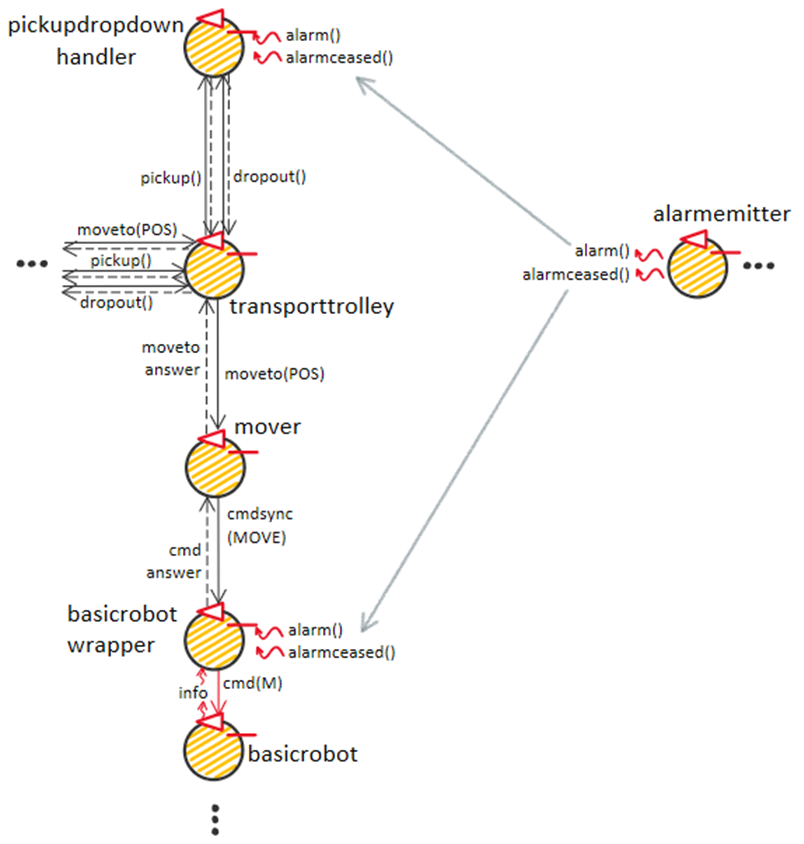
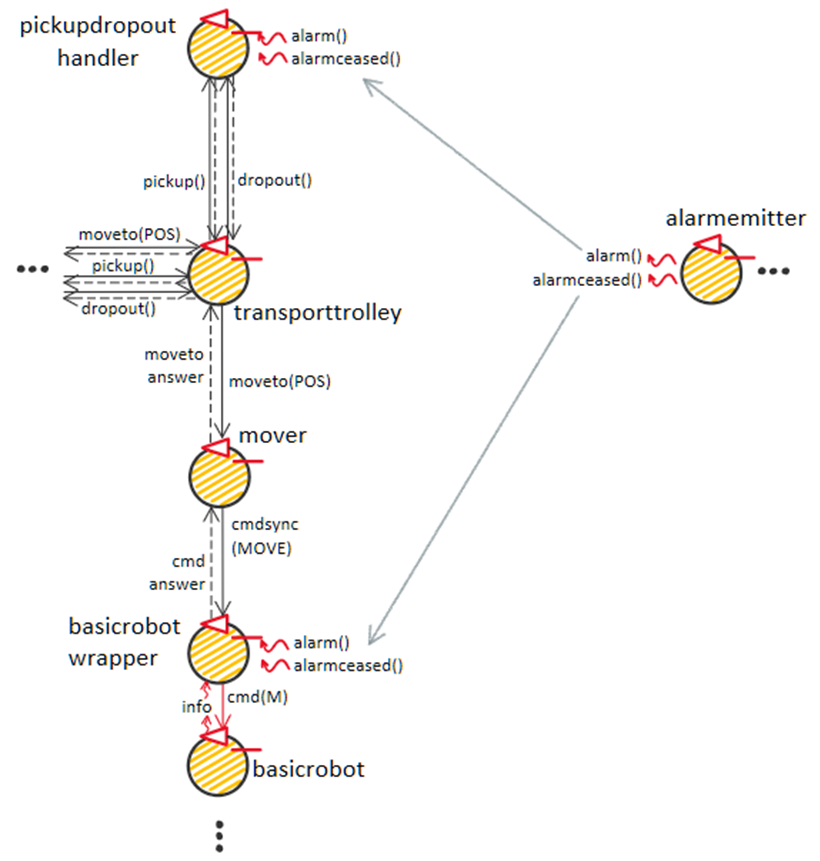
sprint2 documentation complete

diff --git a/sprint2/sprint2.html b/sprint2/sprint2.html
@@ -62,10 +62,10 @@ h6{
             macchinario è in movimento, o più in generale quando sta operando. <br>
             Per questo motivo si deduce che il <b>Led</b>:
             <ul>
-                <li>Debba lampeggiare quando il robot sta gestendo (ho ha gestito e sta tornando a casa) una depositaction, segnalando quindi che il robot può muoversi. <br>
-                    Inoltre, se il robot si trova in home ma si sta girando (magari per riposizionarsi dopo aver gestito una deposiaction), il <b>Led</b> deve comunque lampeggiare.</li>
+                <li>Debba lampeggiare quando il robot sta gestendo (ho ha gestito e sta tornando a casa) una <b>Deposit action</b>, segnalando quindi che il robot può muoversi. <br>
+                    Inoltre, se il robot si trova in <b>HOME</b> ma si sta girando (magari per riposizionarsi dopo aver gestito una deposiaction), il <b>Led</b> deve comunque lampeggiare.</li>
                 <li>Resterà acceso solo se la depositaction viene interrotta da un allarme.</li>
-                <li>Resterà spento solo quando non vi sarà più niente da gestire (e per questo motivo ci si troverà in HOME).
+                <li>Resterà spento solo quando non vi sarà più niente da gestire (e per questo motivo ci si troverà in <b>HOME</b>).
                 </li>
             </ul>
         </li>
@@ -80,7 +80,7 @@ h6{
         dal committente al punto 4, siccome questo rappresenta una parte più importante e corposa rispetto alla gui del punto 3.</p>
     <h4>Piano di lavoro:</h4>
     <ul>
-        <li>Analisi del problema di chi e in che forma riceve le informazioni relative ad un allarme per realizzare lo stop di emergenza del robot</li>
+        <li>Analisi del problema di chi e in che forma riceve le informazioni relative ad un allarme per realizzare l'halt del robot</li>
         <li>Analisi del problema di chi e in che forma riceve le informazioni per realizzare l'aggiornamento dello stato del <b>Led</b></li>
         <li>Sviluppo / adattamento dei componenti necessari</li>
         <li>Realizzazione di un modello eseguibile (a tal proposito verrà utilizzato il metamodello <a href="../docs_common/Qak.html">QAK</a>).</li>
@@ -119,7 +119,7 @@ h6{
 Event alarm       : alarm(_)
 Event alarmceased : alarmceased(_)</pre>
         </code>
-    <p>Risulta quindi logicamente sensato porre in cascata al sonar (il quale potrà emettere eventi locali di distanza misurata) un componente dedicato all'invio system-wide degli eventi 
+    <p>Risulta quindi logicamente sensato porre in cascata al <b>Sonar</b> (il quale potrà emettere eventi locali di distanza misurata) un componente dedicato all'invio system-wide degli eventi 
         di allarme e cessato allarme.</p>
     <p>Inoltre, al fine di realizzare un buon test plan, è opportuno che il sonar possa essere disattivato in modo che gli allarmi possano essere inviati on demand dal test stesso</p>
     <code><pre>
@@ -149,12 +149,13 @@ Dispatch sonardeactivate : sonaractivate(_)</pre>
     
     
     <h3><b>Led</b></h3>
-    <h4>Come calcolare lo stato del led?</h4>
+    <h4>Come calcolare lo stato del <b>Led</b>?</h4>
     <p>Lo stato del <b>Led</b> dipende: </p>
     <ul>
-        <li>Dal fatto che il robot si trovi o meno in home senza dover gestire nient'altro. L'informazione è ottenibile osservando il <i>mover</i></li>
+        <li>Dal fatto che il robot si trovi o meno in <b>HOME</b> senza dover gestire nient'altro. L'informazione è ottenibile osservando il <i>mover</i></li>
         <li>Dal fatto che il robot sia in movimento (o che comunque stia operando) piuttosto che si trovi invece bloccato da un allarme. L'informazione è ottenibile da <i>basicrobotwrapper</i> e <i>pickupdropouthandler</i></li>
     </ul>
+    <p>Dunque potrà essere creato una specie di controller che ossreva questi attori e che invia messaggi al <b>Led</b>.</p>
     <h4>Come interagire con il componente <b>Led</b>?</h4>
     <p>Il componente <b>Led</b> può ricevere gli aggiornamenti di stato tramite eventi, il che permette di realizzare un buon loose binding tra il <b>Led</b> e il resto del sistema. Inoltre lo stato del 
         <b>Led</b> sulla gui potrà essere aggiornato facendo uso del medesimo evento.</p>
@@ -167,6 +168,8 @@ Event    update_led 	  : update_led(LEDSTATE) // LEDSTATE = ON | OFF | BLINK</pr
         <h6>Architettura logica:</h6>
         <img class="centerimg" style="max-width: 1200px;" src="ProblemQakSprint2/demosystemarchitecturearch.png"/>
         <p style="width: 100%; text-align: right;"><a href="../docs_common/Legenda.html">Legenda</a></p>
+        <h6>Note</h6>
+        <small>Ai soli fini di testing è previsto un attore <i>alarmreceivertest</i> in grado registrare nella history quando viene ricevuto un allarme</small>
         <h6>QAK</h6>
         <a href="ProblemQakSprint2/src/problemAnalysis/SystemAchitecture.qak">Modello del sistema QAK</a> <br>
         <h6><p>Testplan <small>(non ancora eseguibili)</small>:</p></h6>
@@ -179,25 +182,101 @@ Event    update_led 	  : update_led(LEDSTATE) // LEDSTATE = ON | OFF | BLINK</pr
 
 
 <h2>Project</h2>
+<div class="remark">
+    <p>Procediamo con lo sviluppo vero e proprio dei componenti. Essi sono tutti presenti nel <a href="QakSprint2/src/Prototype/demo0.qak">file QAK di questo sprint</a>, ma vengono qui 
+        riportate e spiegate le macchine a stati che li implementano.</p>
 
+    <h3><i>pickupdropouthandler</i></h3>
+    <img class="centerimg" style="max-width: 650px;" src="docs/_images/pickupdropouthandler.png"/>
+    <p>La macchina gestisce prioritariamente i messaggi di <i>alarm</i> e <i>alarmceased</i>. Se la macchina a stati si trova nello stato di <i>alarm</i>, allora non verrà effettuata alcuna 
+        operazione fino a che l'allarme non sarà cessato. Se invece non vi è alcun allarme e arriva una richiesta di <b>Pickup</b> o di <b>Dropout</b>, allora si passa da <i>wait</i> a 
+        <i>do_pickup</i> o <i>do_dropout</i>. Se durante tali operazioni giunge un allarme, queste vengono interrotte (stati <i>halt_pickup</i> e <i>halt_dropout</i>), e si passa agli stati 
+        di resume (<i>resume_pickup</i> e <i>resume_dropout</i>) solo una volta cessato l'allarme.</p>
+        <p>Note:</p>
+        <ul>
+            <li>Solo una volta terminata l'operazione si risponde a colui che ha fatto la richiesta (<i>transporttrolley</i> in questo caso), di conseguenza anche le macchine a più alto livello 
+                rimarranno bloccate durante un allarme.</li>
+            <li>Gli allarmi potevano essere gestiti come interrupt. Tuttavia al tempo dello sviluppo di questo sprint, il supporto runtime non è stato ritenuto sufficientemente stabile da poter
+                utilizzare la relativa feature, e quindi si hanno diversi stati di halt/alarm. Inoltre la routine di gestione dell'halt del <b>Pickup</b> potrebbe un domani essere diversa da quella di <b>Dropout</b>.</li>
+            <li>Siccome non si deve perdere nemmeno un messaggio di allarme, gli eventi <i>alarm</i> e <i>alarmceased</i> vengono trasformati in messaggi di tipo Dispatch da un apposito attore 
+                "receiver" (<i>alarmreceiverpickupdropdown</i>) prima di giungere alla macchina corrente. In questo modo i messaggi di allarme vengono accodati invece di essere scartati se arrivano 
+                mentre si è in uno stato che non prevede reazioni ad essi.</li>
+        </ul>
 
+    <h3><i>basicrobotwrapper</i></h3>
+    <img class="centerimg" style="max-width: 600px;" src="docs/_images/basicrobotwrapper.png"/>
+    <p>La macchina gestisce prioritariamente i messaggi di <i>alarm</i> e <i>alarmceased</i>. Se la macchina a stati si trova nello stato di <i>alarm</i>, allora non verrà effettuata alcuna 
+        operazione fino a che l'allarme non sarà cessato. Se invece non vi è alcun allarme e arriva una richiesta, allora si passa da <i>wait</i> a <i>forward_cmd</i> o <i>other_cmd</i> a 
+        seconda che il comando sia di move forward o meno. Se durante una move forward giunge un allarme, il robot viene fermato (<i>halt_forward</i>) e riprenderà ad andare in avanti solo a 
+        cessato allarme (<i>forward_cmd</i>). Quando viene incontrato l'ostacolo si risponde al chiamante (stato <i>collision</i>) e si attengono i prossimi comandi. <br>
+        Un caso particolare è se l'evento di <i>info</i> (che segnala la collisione) avviene mentre si è in <i>halt_forward</i> (magari perché l'allarme è giunto poco prima della collisione, e il 
+        robot non ha fatto in tempo a fermarsi): in tal caso si attende in <i>halt_collision</i> il cessato allarme, per poi passare direttamente a <i>collision</i> (N.B: se si passasse 
+        direttamente da <i>halt_forward</i> a <i>collision</i> durante un allarme, l'evento <i>alarm</i> verrebbe consumato e la macchina sarebbe pronta ad interpretare ed eseguire nuovi 
+        comandi anche se l'<i>alarmceased</i> non è ancora arrivato). <br>
+        Per gli altri comandi (stato <i>other_cmd</i>) tutto questo non è necessario, siccome ne gli halt, ne i turn devono essere interrotti. </p>
+        <p>Note:</p>
+        <ul>
+            <li>Solo una volta terminata l'operazione si risponde a colui che ha fatto la richiesta (<i>mover</i> in questo caso), di conseguenza anche le macchine a più alto livello rimarranno bloccate durante un allarme.</li>
+            <li>Siccome non si deve perdere nemmeno un messaggio di allarme, gli eventi <i>alarm</i> e <i>alarmceased</i> vengono trasformati in messaggi di tipo Dispatch da un apposito attore "receiver" (<i>alarmreceiverbasicrobot</i>) 
+                prima di giungere alla macchina corrente. In questo modo i messaggi di allarme vengono accodati invece di essere scartati se arrivano mentre si è in uno stato che non prevede reazioni ad essi.</p></li>
+        </ul>
 
-<h2>Test plans</h2> 
+    <h3><i>ledalarmcontrol</i></h3>
+    <p>Vengono osservati gli attori <i>mover</i>, <i>basicrobotwrapper</i> e <i>pickupdropouthandler</i>, e ad ogni singolo cambiamento di stato di questi si calcola il nuovo stato del <b>Led</b>. 
+        Se tale stato differisce da quello in cui si trova attualmente, allora viene emesso l'evento <i>update_led</i>. <br>
+        Dal <i>mover</i> ricaviamo la posizione attuale e la prossima destinazione che il robot deve raggiungere. Se queste sono entrambe "HOME", allora significa che il robot è inattivo, e 
+        il <b>Led</b> deve essere in ogni caso spento. <br>
+        Da <i>basicrobotwrapper</i> e <i>pickupdropouthandler</i> capiamo invece se il robot è attualmente in movimento, o se è invece bloccato. Il robot è effettivamente bloccato solo quando 
+        sia <i>basicrobotwrapper</i>, sia <i>pickupdropouthandler</i> sono in uno stato di halt/alarm. Ad esempio, se il robot sta girando ed è appena arrivato un allarme, 
+        <i>pickupdropouthandler</i> sarà nello stato <i>alarm</i>, mentre <i>basicrobotwrapper</i> entrerà in <i>alarm</i> solamente dopo aver completato il giro (ossia solo quando sarà 
+        effettivamente fermo). <br>
+        Il <b>Led</b> quindi rimane acceso solo quando:
+        <ul>
+            <li><i>basicrobotwrapper</i> si trova in <i>alarm</i>, <i>halt_forward</i> o <i>halt_collision</i></li>
+            <li><i>pickupdropouthandler</i> si trova in  <i>alarm</i>, <i>halt_pickup</i> o <i>halt_dropout</i></li>
+        </ul>
+    </p>
+</div>
 
+<h2>Test plans</h2>
+<div class="remark">
+    <h4><p>Test effettuati:</p></h4>
+    <ul>
+        <h6>Classe di test TestSprint2_integration_halt.kt:</h6>
+        <p>Classe per testare il sistema, in particolare per verificare che il robot si fermi</p>
+        <li><u>test_accepted()</u>: Il robot viene interrotto durante una move forward, durante una turn, durante una <b>Pickup</b> e una <b>Dropout</b>.
+            Si controlla che gli stati delle varie macchine assumano i valori che si si aspetti</li>
+        <h6>Classe di test TestSprint2_halt_unit_test.kt:</h6>
+        <p>Test specifici per testare <i>basicrobotwrapper</i> e <i>pickupdropouthandler</i>. Per questi test viene anche fatto uso dell'attore ausiliario <i>commandissuerfortests</i></p>
+        <lI><u>test_halt_while_forward()</u>: <i>alarm</i> inviato durante l'operazione di move forward: operazione interrotta e poi ripresa</lI>
+        <li><u>test_halt_before_forward()</u>: <i>alarm</i> inviato prima dell'operazione di move forward: comincerà dopo <i>alarmceased</i></li>
+        <li><u>test_halt_while_turn()</u>: <i>alarm</i> inviato durante l'operazione di turn: operazione continua, e solo dopo che è completata la macchina si blocca</li>
+        <li><u>test_halt_before_turn()</u>: <i>alarm</i> inviato prima dell'operazione di turn: comincerà dopo <i>alarmceased</i></li>
+        <li><u>test_halt_while_pickup()</u>: <i>alarm</i> inviato durante l'operazione di <b>Pickup</b>: operazione interrotta e poi ripresa</li>
+        <li><u>test_halt_before_pickup()</u>: <i>alarm</i> inviato prima dell'operazione di <b>Pickup</b>: comincerà dopo <i>alarmceased</i></li>
+        <h6>Classe di test TestSprint2_integration_led.kt:</h6>
+        <p>Classe per testare il sistema, in particolare per verificare che il led si comporti come ci si aspetti</p>
+        <li><u>test_accepted()</u>: Il robot viene interrotto durante una move forward, durante una turn, durante una <b>Pickup</b> e una <b>Dropout</b>. 
+            Si controlla che lo stato del <b>Led</b> assuma il valore che ci si aspetti</li>
+    </ul>
+</div>
 
 <div class="remark" style="background-color: #c3fbe8;">
-    <!--<h3>Riassunto situazione attuale:</h3>
+    <h3>Riassunto situazione attuale:</h3>
     <h6>Architettura logica:</h6>
-    <img class="centerimg" style="max-width: 1300px;" src="QakSprint1/demo0arch.png"/>
+    <img class="centerimg" style="max-width: 1300px;" src="QakSprint2/demo0arch.png"/>
     <p style="width: 100%; text-align: right;"><a href="../docs_common/Legenda.html">Legenda</a></p>
     <h6>Note</h6>
-    <small><p><i>Basicrobot</i> è stato leggermente modificato rispetto alla versione iniziale per renderlo più stabile, ed è per questo stato rinominato in <i>basicrobotlorisdavide</i></p></small>
+    <small><ul>
+        <li>Ai soli fini di testing è previsto un attore <i>commandissuerfortests</i> in grado di effettuare singole richieste e registrare le risposte degli attori <i>basicrobotwrapper</i> e <i>pickupdropouthandler</i>.</li>
+        <li>Anche se nell'immagine non figura (a causa del fatto che è un codedQActor), <i>ledalarmcontrol</i> riceve aggiornamenti coap da <i>mover</i>, <i>basicrobotwrapper</i> e <i>pickupdropouthandler</i> per poi emettere eventi di tipo <i>update_led</i>.</li>
+    </ul></small>
     <h6>QAK</h6>
-    <a href="QakSprint1/src/Prototype/demo0.qak">Metamodello eseguibile QAK</a>
+    <a href="QakSprint2/src/Prototype/demo0.qak">Metamodello eseguibile QAK</a>
     <h6><p>Testplan:</p></h6>
-    <p><a href="QakSprint1/test/testSprint1/TestSprint1_wasteservice.kt">TestSprint1_wasteservice.kt</a> <small>(= a sprint0)</small> <br>
-        <a href="QakSprint1/test/testSprint1/TestSprint1_mover.kt">TestSprint1_mover.kt</a> <br>
-        <a href="QakSprint1/test/testSprint1/TestSprint1_integration_test.kt">TestSprint1_integration_test.kt</a></p>-->
+    <p><a href="QakSprint2/test/testSprint2/TestSprint2_integration_halt.kt">TestSprint2_integration_halt.kt</a> <br>
+        <a href="QakSprint2/test/testSprint2/TestSprint2_halt_unit_test.kt">TestSprint2_halt_unit_test.kt</a> <br>
+        <a href="QakSprint2/test/testSprint2/TestSprint2_integration_led.kt">TestSprint2_integration_led.kt</a></p>
 </div>
  
 <!-- USEFUL

diff --git a/sprint2/ProblemQakSprint2/src/it/unibo/ledalarmcontrol/Ledalarmcontrol.kt b/sprint2/ProblemQakSprint2/src/it/unibo/ledalarmcontrol/Ledalarmcontrol.kt
@@ -1,0 +1,38 @@
+/* Generated by AN DISI Unibo */ 
+package it.unibo.ledalarmcontrol
+
+import it.unibo.kactor.*
+import alice.tuprolog.*
+import kotlinx.coroutines.CoroutineScope
+import kotlinx.coroutines.delay
+import kotlinx.coroutines.launch
+import kotlinx.coroutines.runBlocking
+	
+class Ledalarmcontrol ( name: String, scope: CoroutineScope  ) : ActorBasicFsm( name, scope ){
+
+	override fun getInitialState() : String{
+		return "s0"
+	}
+	override fun getBody() : (ActorBasicFsm.() -> Unit){
+		val interruptedStateTransitions = mutableListOf<Transition>()
+		return { //this:ActionBasciFsm
+				state("s0") { //this:State
+					action { //it:State
+						CoapObserverSupport(myself, "127.0.0.1","8096","ctxrobot","basicrobotwrapper")
+						CoapObserverSupport(myself, "127.0.0.1","8096","ctxrobot","mover")
+						CoapObserverSupport(myself, "127.0.0.1","8096","ctxrobot","pickupdropouthandler")
+					}
+					 transition(edgeName="t065",targetState="handleUpdate",cond=whenDispatch("coapUpdate"))
+				}	 
+				state("handleUpdate") { //this:State
+					action { //it:State
+						if( checkMsgContent( Term.createTerm("coapUpdate(RESOURCE,VALUE)"), Term.createTerm("coapUpdate(RESOURCE,VALUE)"), 
+						                        currentMsg.msgContent()) ) { //set msgArgList
+								emit("update_led", "update_led(_)" ) 
+						}
+					}
+					 transition(edgeName="t066",targetState="handleUpdate",cond=whenDispatch("coapUpdate"))
+				}	 
+			}
+		}
+}

diff --git a/sprint2/ProblemQakSprint2/Arch_demosystemarchitecture.py b/sprint2/ProblemQakSprint2/Arch_demosystemarchitecture.py
@@ -34,7 +34,7 @@ with Diagram('demosystemarchitectureArch', show=False, outformat='png', graph_at
           alarmreceivertest=Custom('alarmreceivertest','./qakicons/symActorSmall.png')
           distancefilter=Custom('distancefilter(coded)','./qakicons/codedQActor.png')
      with Cluster('ctxalarm', graph_attr=nodeattr):
-          led_alarm_control=Custom('led_alarm_control','./qakicons/symActorSmall.png')
+          ledalarmcontrol=Custom('ledalarmcontrol','./qakicons/symActorSmall.png')
           led=Custom('led','./qakicons/symActorSmall.png')
           alarmemitter=Custom('alarmemitter','./qakicons/symActorSmall.png')
           sonarlorisdavide=Custom('sonarlorisdavide','./qakicons/symActorSmall.png')
@@ -57,10 +57,10 @@ with Diagram('demosystemarchitectureArch', show=False, outformat='png', graph_at
      basicrobotwrapper >> Edge(color='blue', style='solid', xlabel='cmd') >> basicrobotlorisdavide
      sys >> Edge(color='red', style='dashed', xlabel='info') >> basicrobotwrapper
      basicrobotlorisdavide >> Edge( xlabel='info', **eventedgeattr) >> sys
-     basicrobotwrapper >> Edge(color='blue', style='solid', xlabel='coapUpdate') >> led_alarm_control
-     mover >> Edge(color='blue', style='solid', xlabel='coapUpdate') >> led_alarm_control
-     pickupdropouthandler >> Edge(color='blue', style='solid', xlabel='coapUpdate') >> led_alarm_control
-     led_alarm_control >> Edge( xlabel='update_led', **eventedgeattr) >> sys
+     basicrobotwrapper >> Edge(color='blue', style='solid', xlabel='coapUpdate') >> ledalarmcontrol
+     mover >> Edge(color='blue', style='solid', xlabel='coapUpdate') >> ledalarmcontrol
+     pickupdropouthandler >> Edge(color='blue', style='solid', xlabel='coapUpdate') >> ledalarmcontrol
+     ledalarmcontrol >> Edge( xlabel='update_led', **eventedgeattr) >> sys
      sys >> Edge(color='red', style='dashed', xlabel='update_led') >> led
      sys >> Edge(color='red', style='dashed', xlabel='local_sonardata') >> alarmemitter
      alarmemitter >> Edge( xlabel='alarm', **eventedgeattr) >> sys
